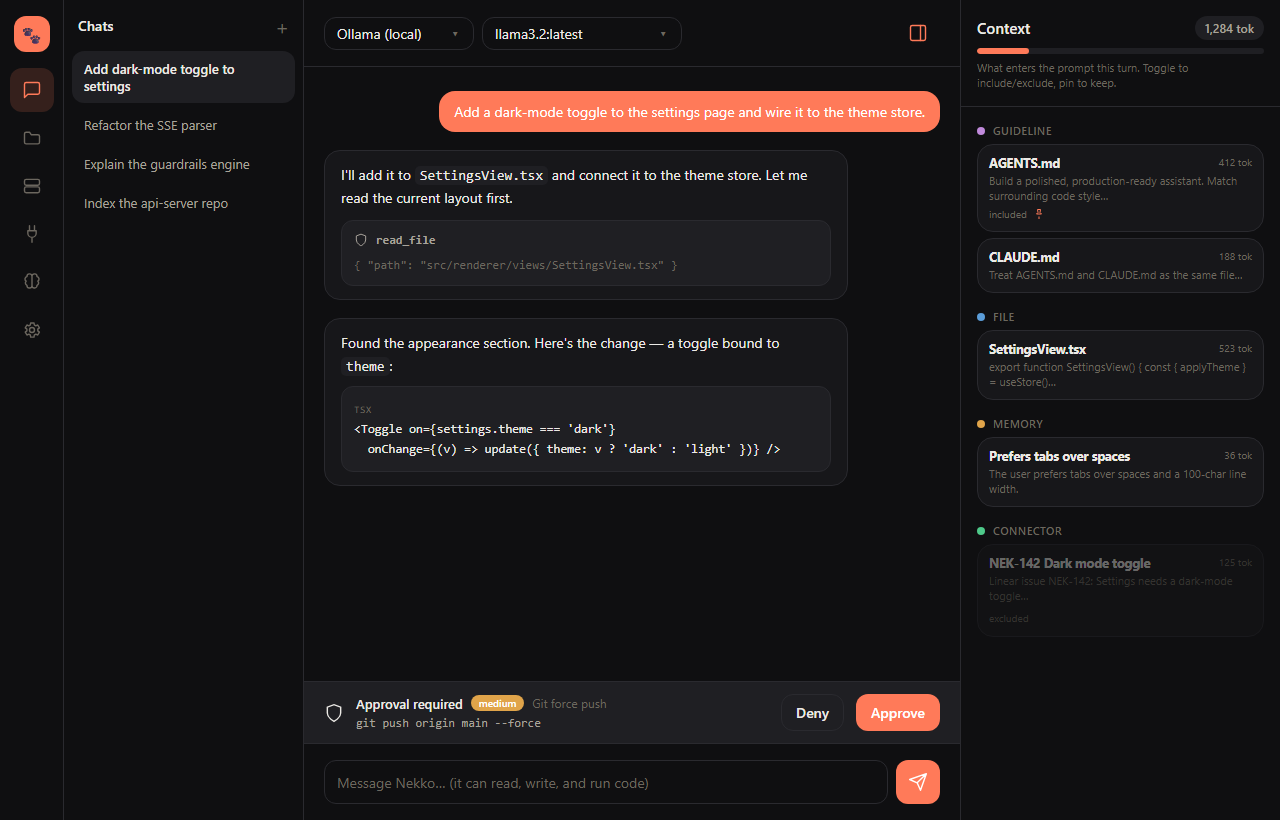
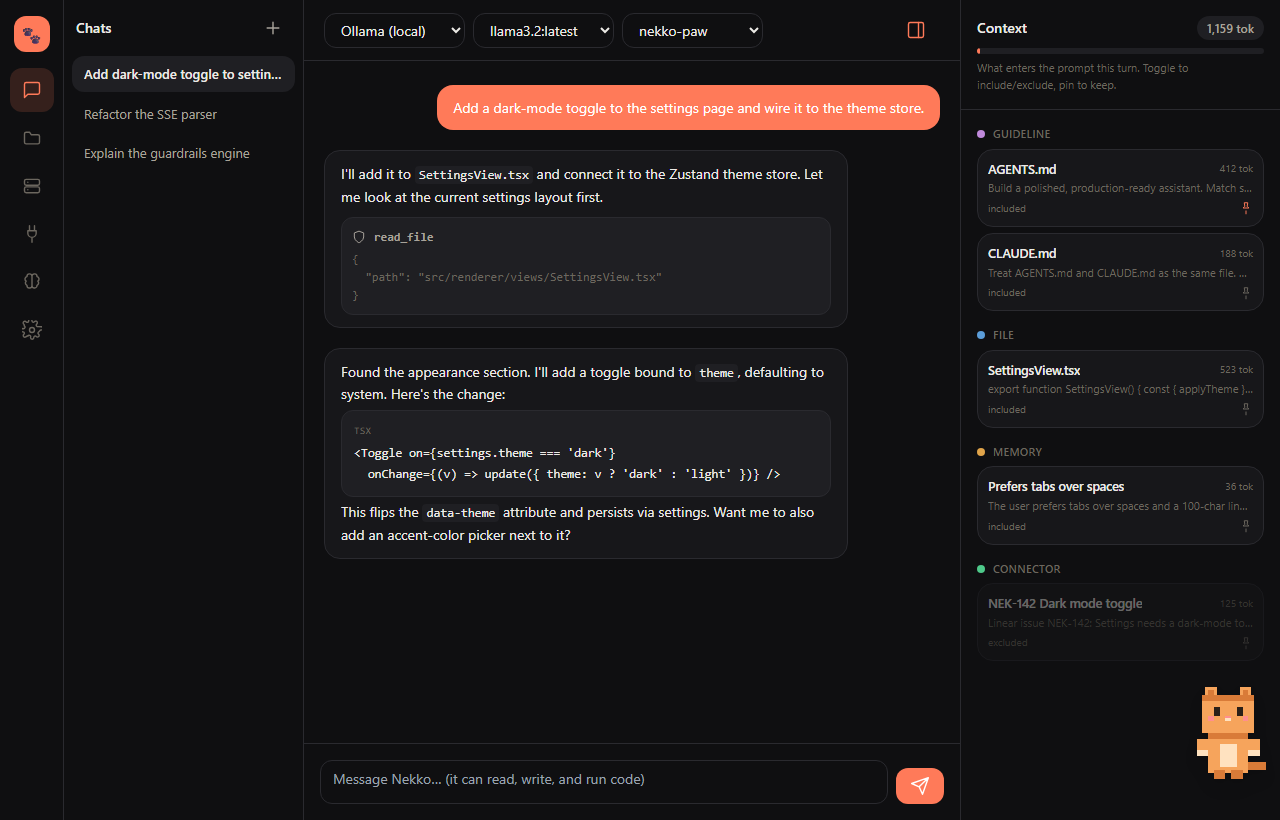
fix: load models for the active provider on startup; real-app hero screenshot
- store: refreshProviders now fetches the model list whenever models are
  empty, fixing a startup race where a saved default provider was already
  active and its models never loaded (header showed 'No models')
- docs: replace the chat hero with a capture of the actual running app
  (provider/model/project selectors, Context Inspector pins, mascot)

diff --git a/apps/desktop/src/renderer/store.ts b/apps/desktop/src/renderer/store.ts
@@ -97,8 +97,13 @@ export const useStore = create<UiState>((set, get) => ({
     const providers = await window.nekko.listProviders();
     set({ providers });
     const active = get().activeProviderId ?? providers[0]?.id ?? null;
-    if (active && active !== get().activeProviderId) await get().selectProvider(active);
-    else if (active) set({ activeProviderId: active });
+    if (active) {
+      set({ activeProviderId: active });
+      // Always populate models for the active provider on startup — guards a
+      // race where a saved default provider is already active and would
+      // otherwise never have its model list fetched.
+      if (get().models.length === 0) await get().selectProvider(active);
+    }
   },
 
   selectProvider: async (id) => {